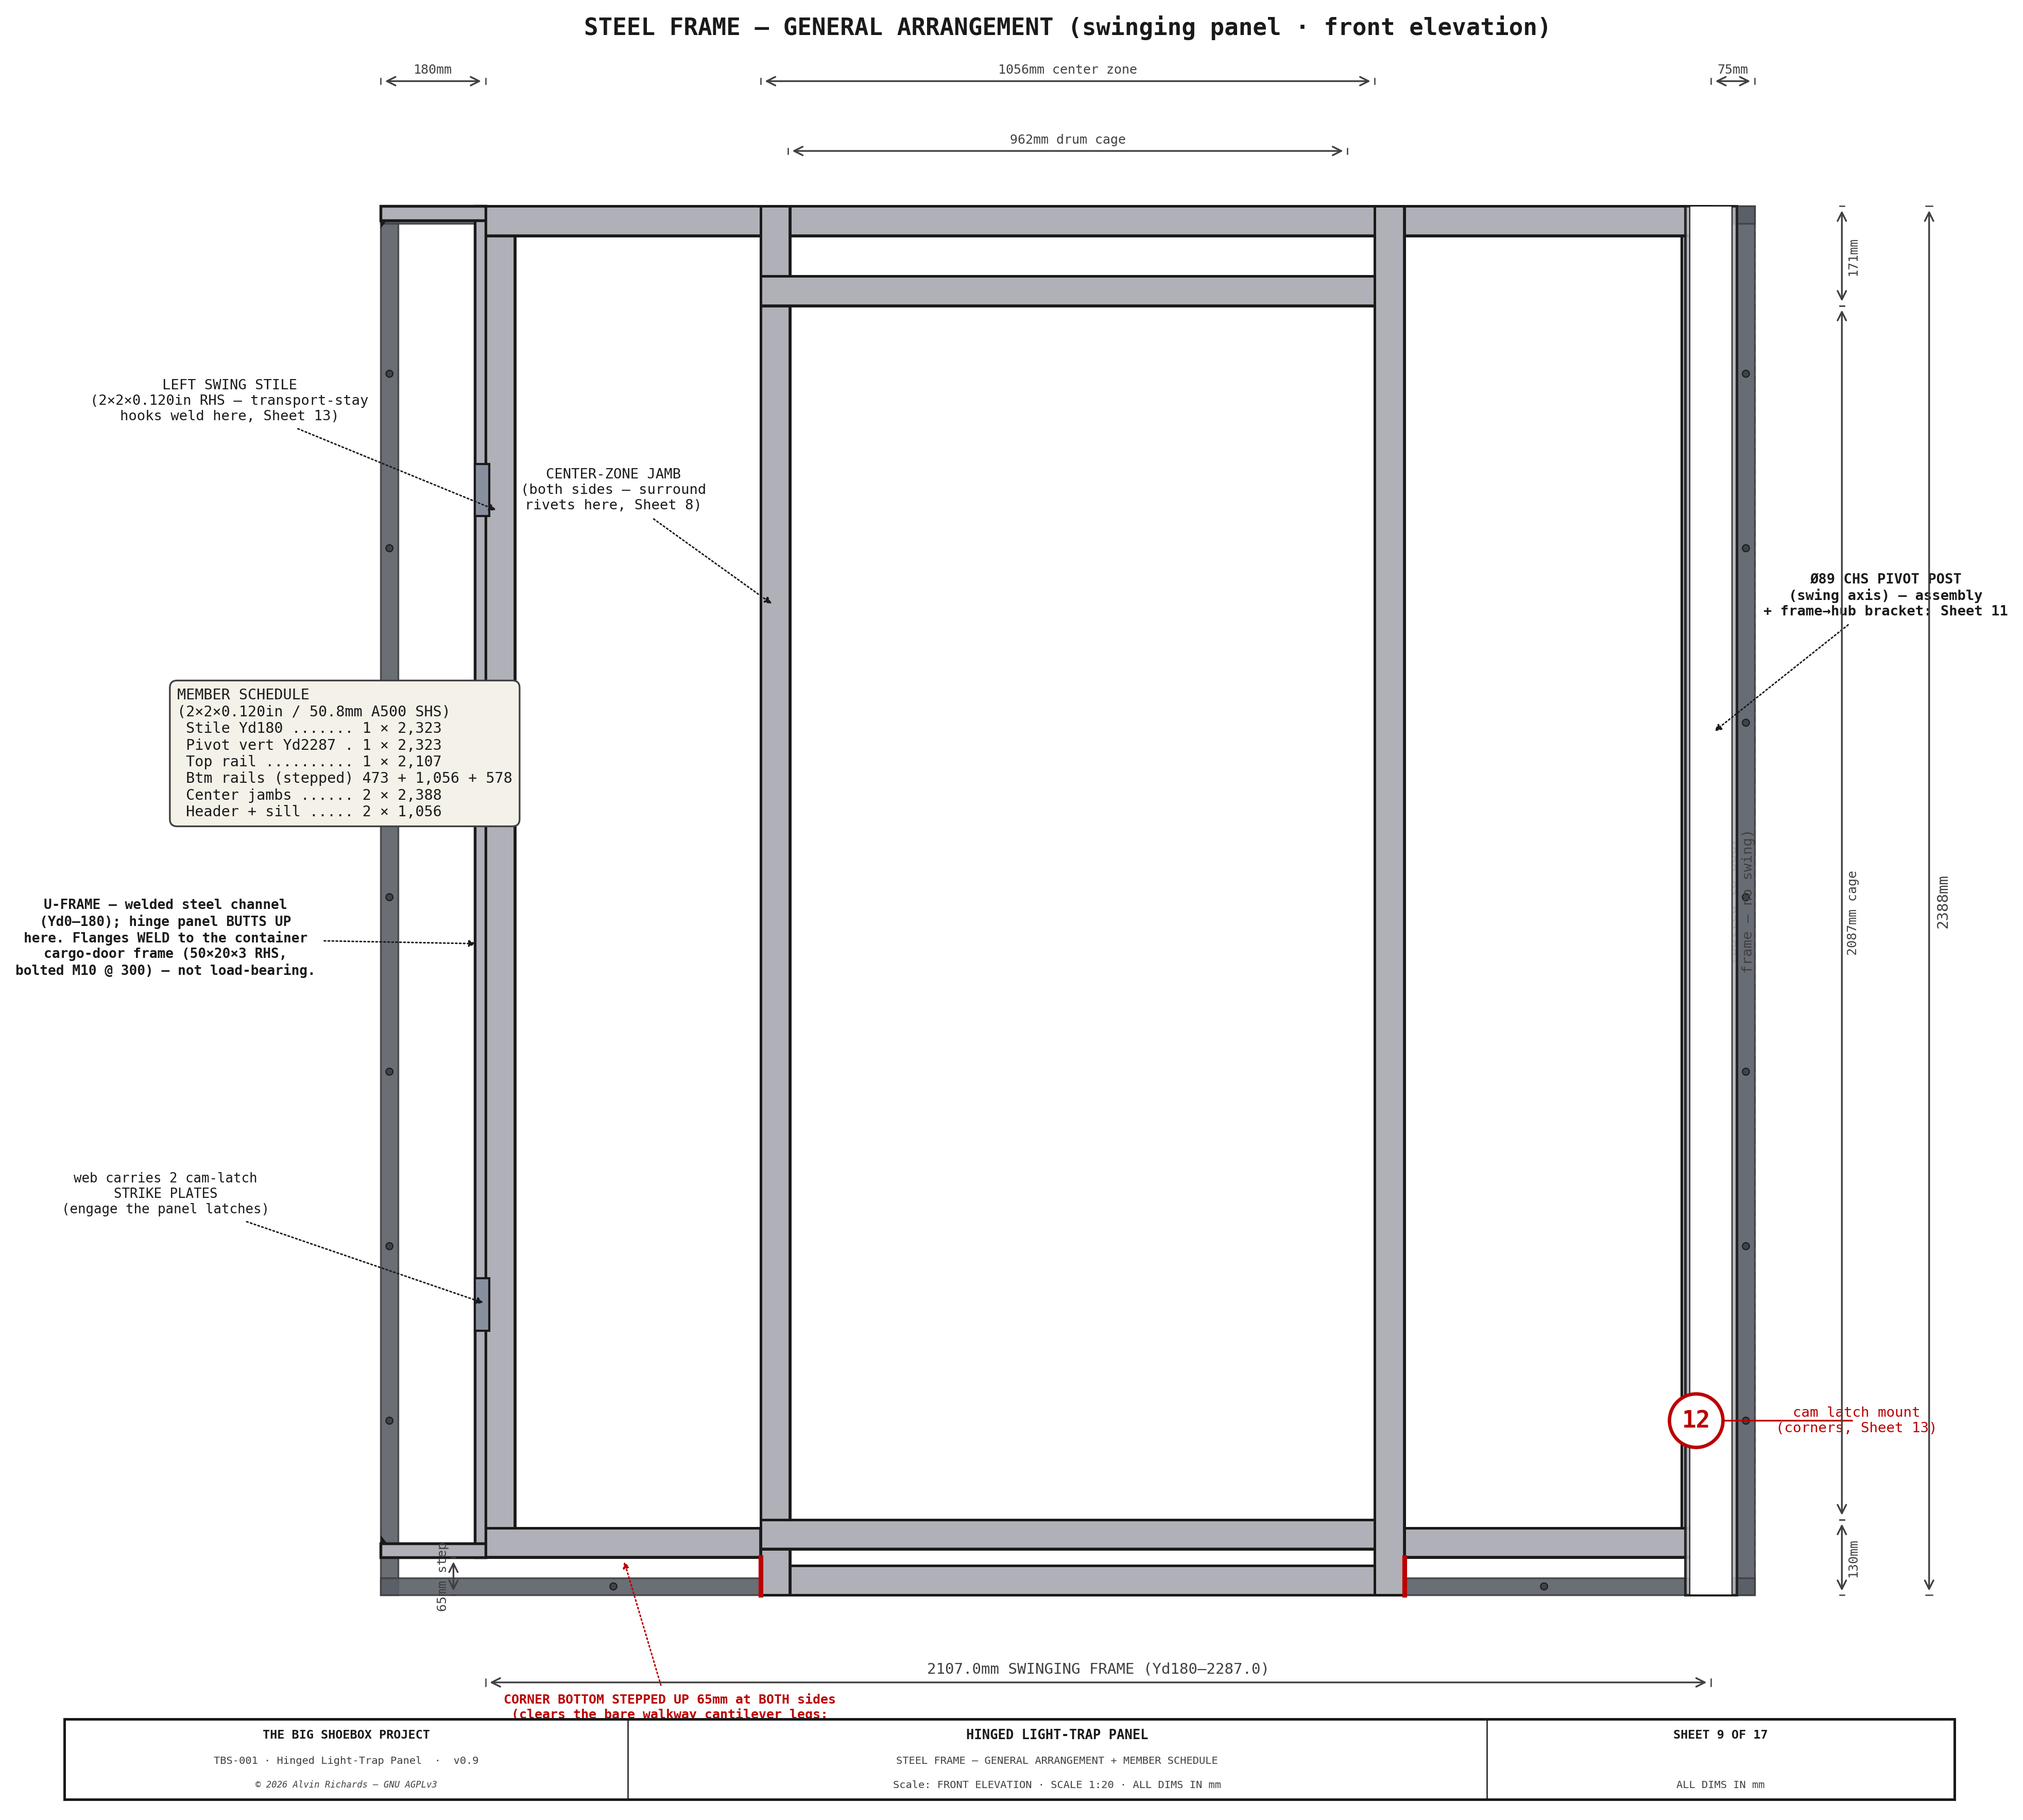
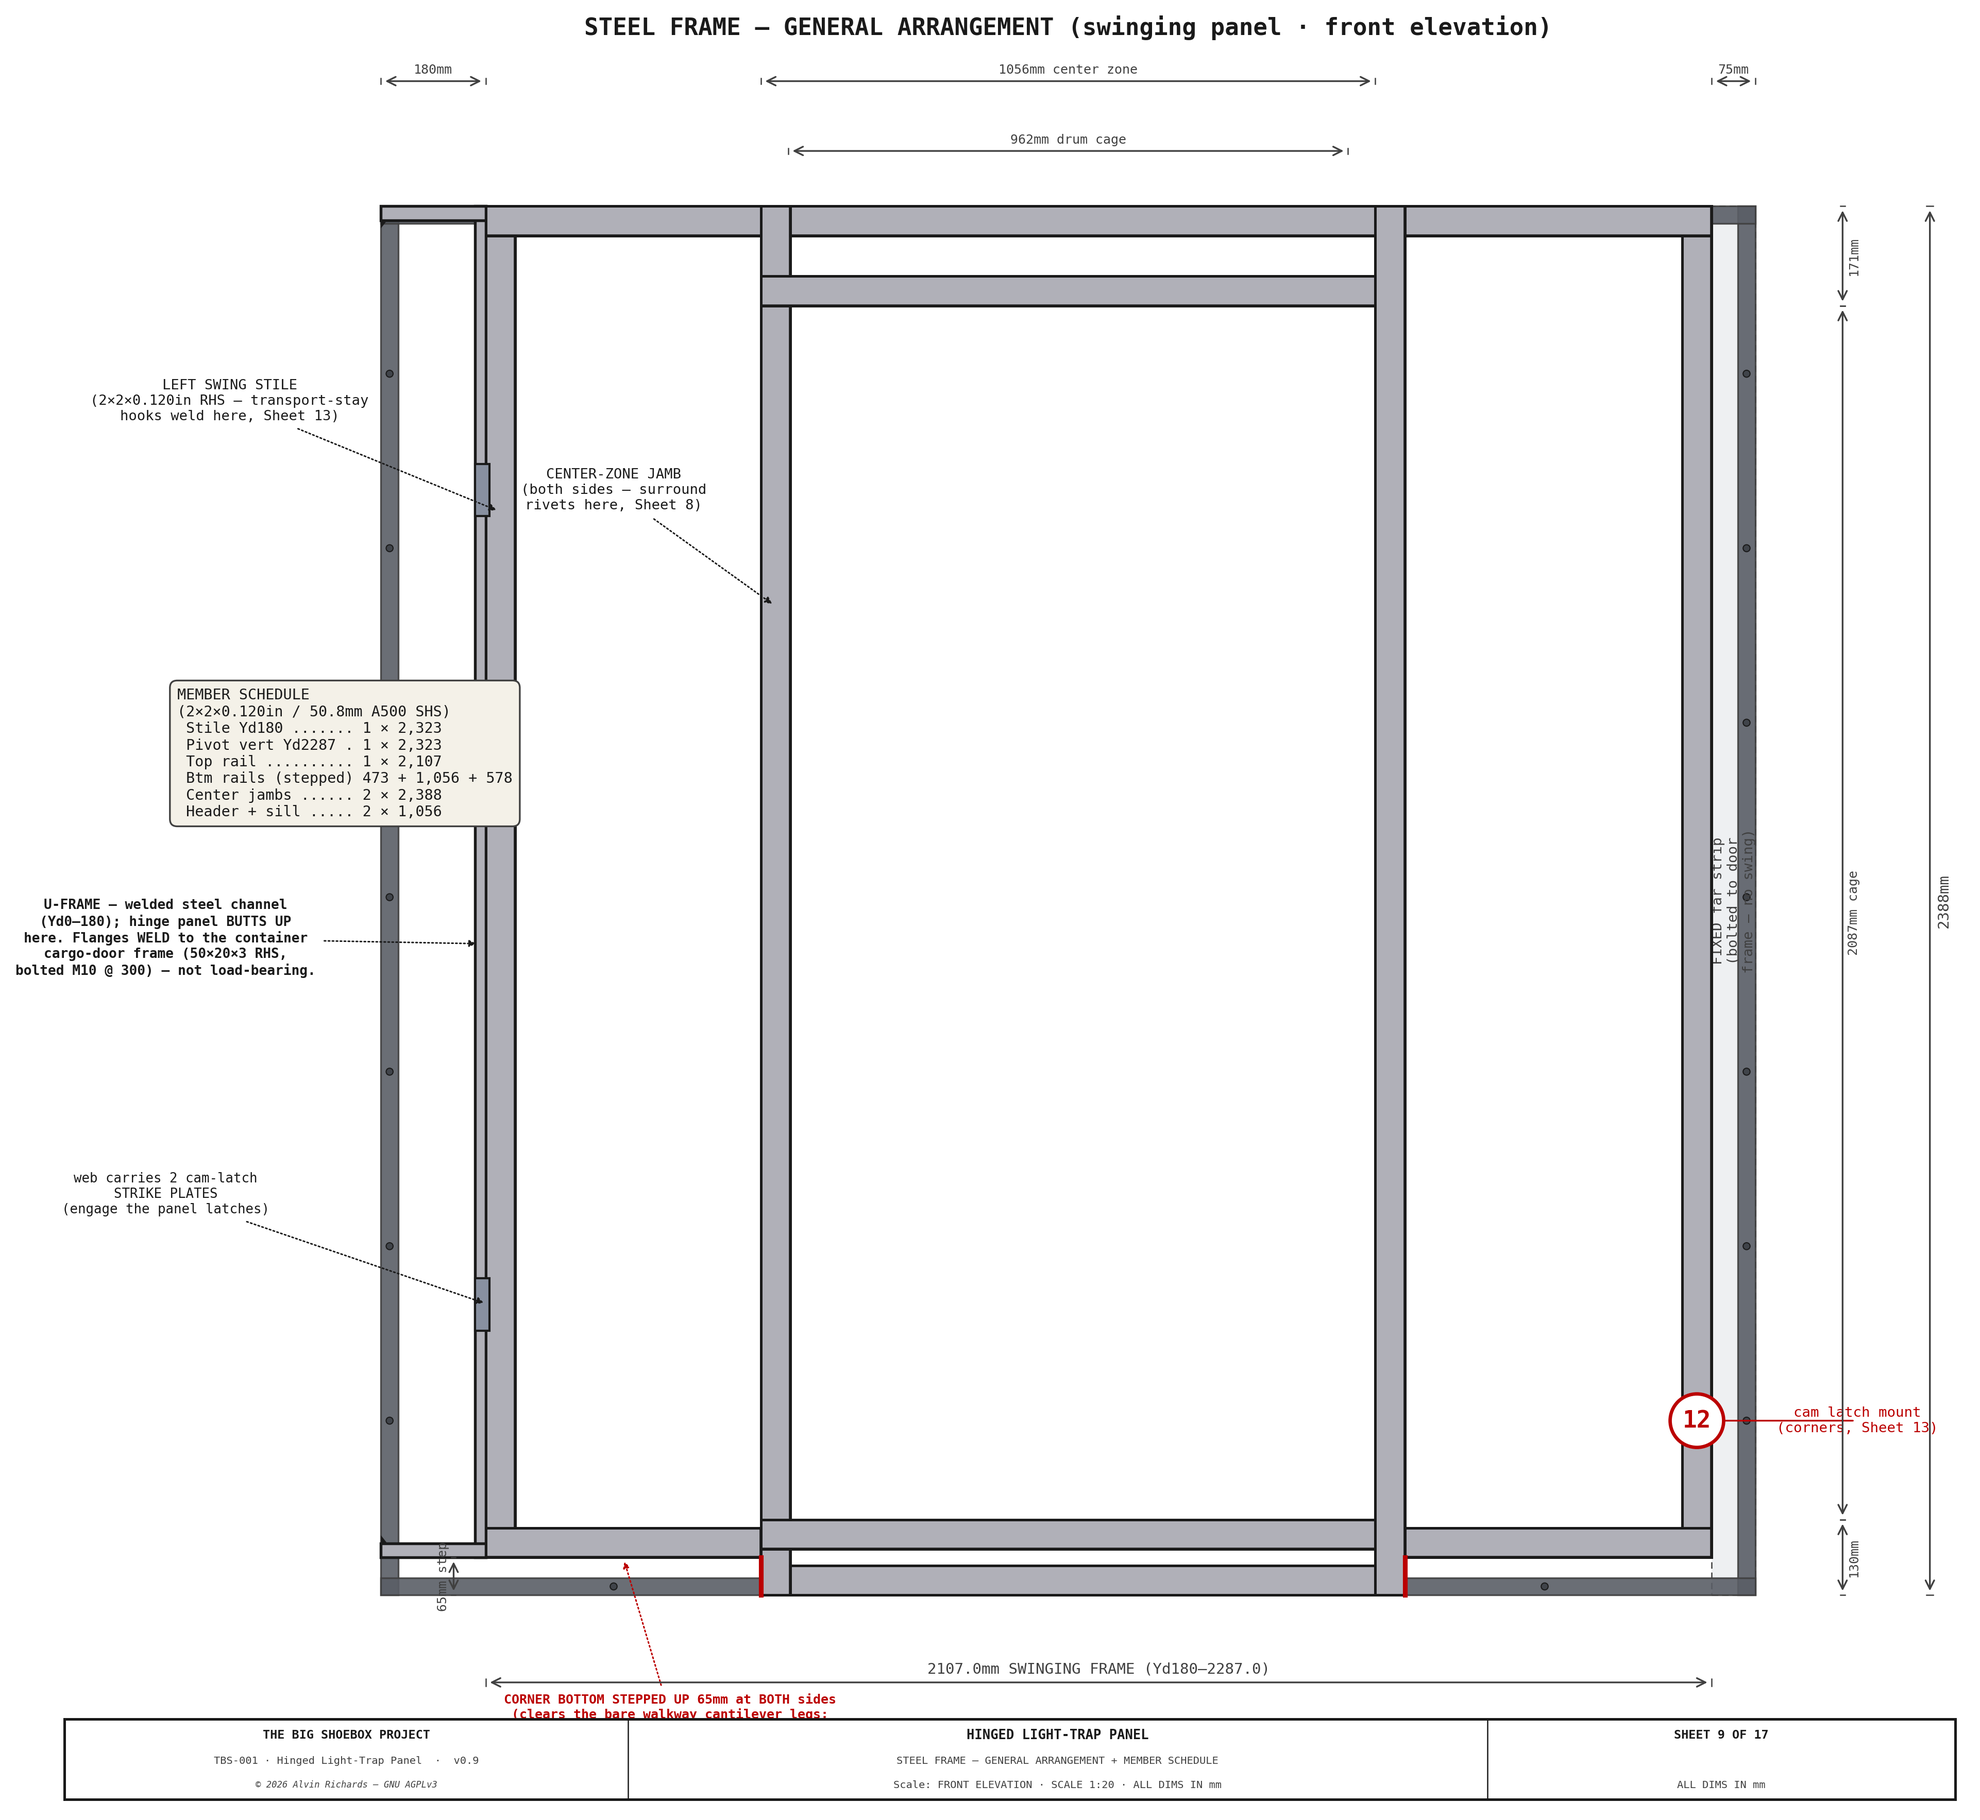
Sheet 9/10: remove the Ø89 pivot post from the frame GA (distraction; detailed on Sheet 11)

diff --git a/src/generators/generate_hingepanel_diagram.py b/src/generators/generate_hingepanel_diagram.py
@@ -2159,15 +2159,8 @@ def _frame_ga(mirror=False):
     leader(ax, ((yL + jL) / 2, STEP), ((yL + jL) / 2 + 80, -205),
            f"CORNER BOTTOM STEPPED UP {STEP}mm at BOTH sides\n(clears the bare walkway cantilever legs;\nwalkway removed for transport — Sheet 16)", col="#B00", fw="bold", fs=6)
 
-    # ── pivot post (Yd = PIVOT_YD) → Sheet 11 ──
-    # In the EXTERIOR mirror the post is on the FAR (interior) side → drawn BEHIND the frame; in the
-    # interior front view it is nearest the viewer → foreground.
-    pp_z = 1.6 if mirror else 7
-    ax.add_patch(Rectangle((yR - PIVOT_POST_OD / 2, 0), PIVOT_POST_OD, PH, fc=C_STEEL, ec=C_OUT, lw=1.2, alpha=0.9, zorder=pp_z))   # vertical Ø89 post (front elevation → a vertical tube)
-    ax.add_patch(Rectangle((yR - PIVOT_POST_OD / 2 + 8, 0), PIVOT_POST_OD - 16, PH, fc=BG, ec=C_OUT, lw=0.5, zorder=pp_z))          # tube bore
-    ax.plot([yR, yR], [0, PH], color=C_CL, lw=1.0, ls=(0, (7, 4)), zorder=6)
-    leader(ax, (yR, PH * 0.62), (yR + 300, PH * 0.72),
-           "Ø89 CHS PIVOT POST\n(swing axis) — assembly\n+ frame→hub bracket: Sheet 11", col=C_OUT, fw="bold")
+    # NOTE: the Ø89 CHS pivot post (swing axis) is intentionally NOT drawn on this sheet — it is a
+    # distraction from the steel-frame GA. The post assembly + frame→hub bracket are detailed on Sheet 11.
 
     # ── detail bubbles ──
     def bubble(x, z, n, txt, tp):

diff --git a/RELEASE.md b/RELEASE.md
@@ -24,6 +24,10 @@ file** — a release must not ship without a changelog entry:
 
 ## [Unreleased]
 
+- **Hinged panel Sheet 9/10 (steel-frame GA) — Ø89 pivot post removed.** The vertical pivot-post tube
+  was a distraction from the frame general arrangement; it now reads as just the steel frame. The post
+  assembly stays detailed on Sheet 11.
+
 - **Lighttrap 3D model — cam-latch handle redrawn as an L (matches Sheet 13 Detail A).** The straight
   T-handle lever is replaced by an L-shaped lift-and-turn handle: a stem out the interior face with the
   grip bent up 90°, so the model reads the same as the 2D latch detail.
